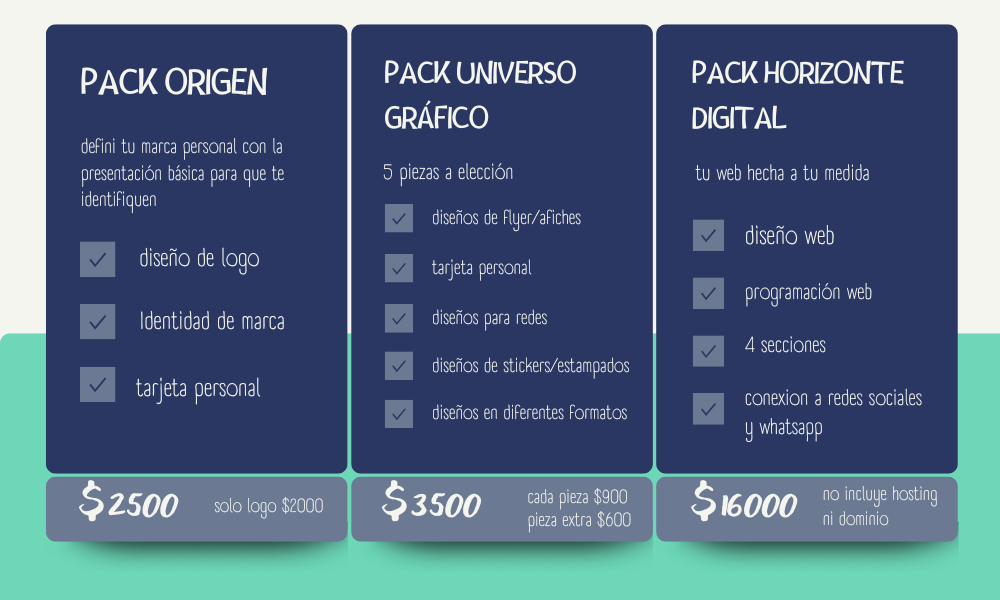
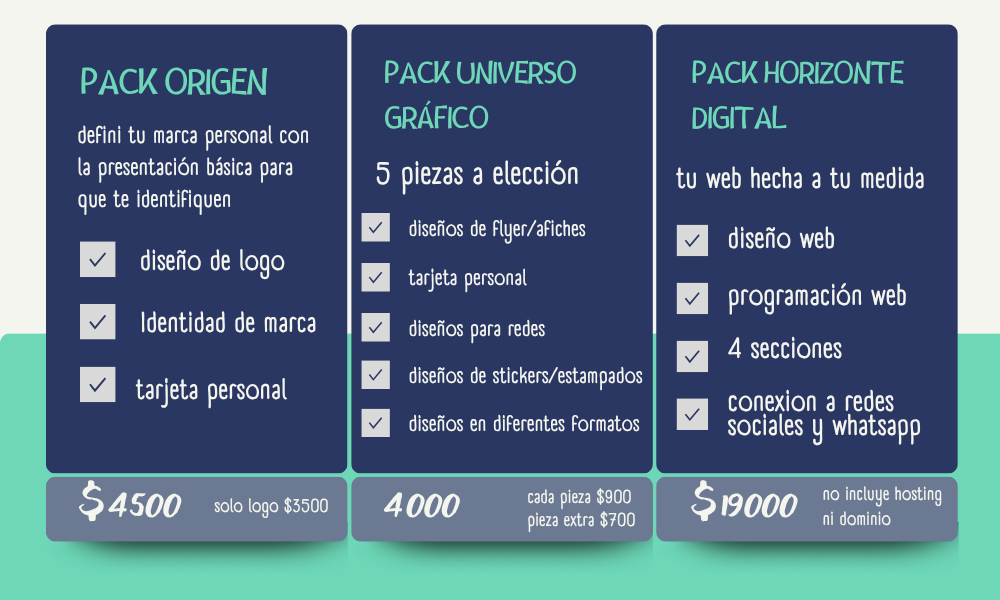
actualizacion pagina de servicios

diff --git a/servicios.html b/servicios.html
@@ -193,28 +193,28 @@
                                     <tr>
                                         <th scope="row">Reuniones on-line</th>
                                         <td> > 1hs</td>
-                                        <td>$5usd</td>
+                                        <td>$10usd</td>
                                     </tr>
                                     <tr>
                                         <th scope="row">Primer boceto y primera revisión</th>
                                         <td>2hs</td>
-                                        <td>$10usd</td>
+                                        <td>$20usd</td>
                                     </tr>
                                     <tr>
                                         <th scope="row">Segundo boceto y segunda revisión</th>
                                         <td>5hs</td>
-                                        <td>$25usd</td>
+                                        <td>$50usd</td>
 
                                     </tr>
                                     <tr>
                                         <th scope="row">Detalles finales y documentación</th>
                                         <td>2hs</td>
-                                        <td>$10usd</td>
+                                        <td>$20usd</td>
 
                                     </tr>
                                     <th scope="row"><strong>Total</strong></th>
                                     <td>10hs</td>
-                                    <td>$50usd</td>
+                                    <td>$100usd</td>
                                 </tbody>
                             </table>
 
@@ -252,28 +252,28 @@
                                     <tr>
                                         <th scope="row">Reuniones on-line</th>
                                         <td> > 2hs</td>
-                                        <td>$10usd</td>
+                                        <td>$20usd</td>
                                     </tr>
                                     <tr>
                                         <th scope="row">Investigaciónes y recopilación de material</th>
                                         <td>5hs</td>
-                                        <td>$25usd</td>
+                                        <td>$50usd</td>
                                     </tr>
                                     <tr>
                                         <th scope="row">Bosquejos</th>
                                         <td>3hs</td>
-                                        <td>$15usd</td>
+                                        <td>$30usd</td>
                                     </tr>
                                     <tr>
                                         <th scope="row">Prototipo de baja fidelidad</th>
                                         <td>4hs</td>
-                                        <td>$20usd</td>
+                                        <td>$40usd</td>
 
                                     </tr>
                                     <tr>
                                         <th scope="row">Maquetas</th>
                                         <td>5hs</td>
-                                        <td>$25usd</td>
+                                        <td>$50usd</td>
 
                                     </tr>
                                     <tr>
@@ -284,11 +284,11 @@
                                     <tr>
                                         <th scope="row">Revisiones y documentación</th>
                                         <td>5hs</td>
-                                        <td>$25usd</td>
+                                        <td>$50usd</td>
                                     </tr>
                                     <th scope="row"><strong>Total</strong></th>
                                     <td>44hs</td>
-                                    <td>$220usd</td>
+                                    <td>$440usd</td>
                                 </tbody>
                             </table>
 
@@ -323,28 +323,28 @@
                                     <tr>
                                         <th scope="row">Maquetación HTML</th>
                                         <td> 5hs</td>
-                                        <td>$50usd</td>
+                                        <td>$100usd</td>
                                     </tr>
                                     <tr>
                                         <th scope="row">Añadir Css y Bootstrap</th>
                                         <td>5hs</td>
-                                        <td>$50usd</td>
+                                        <td>$100usd</td>
                                     </tr>
                                     <tr>
                                         <th scope="row">JS</th>
                                         <td>5hs</td>
-                                        <td>$50usd</td>
+                                        <td>$100usd</td>
 
                                     </tr>
                                     <tr>
                                         <th scope="row">Detalles finales y documentación</th>
                                         <td>2hs</td>
-                                        <td>$20usd</td>
+                                        <td>$40usd</td>
 
                                     </tr>
                                     <th scope="row"><strong>Total</strong></th>
                                     <td>17hs</td>
-                                    <td>$170usd</td>
+                                    <td>$340usd</td>
                                 </tbody>
                             </table>
 
@@ -364,7 +364,7 @@
                         <img src="img/logo-desarrollo.ecommerce.png" class="" alt="Responsive" width="100%">
                         <div class="card-body"><br>
                             <h2 class="text-center">Ecommerce</h2><br>
-                            <p class="text-center">Básico 30 productos</p>
+                            <p class="text-center">Básico 20 productos</p>
                             <br>
 
                             <h5 class="text-center">INCLUYE:</h5>
@@ -437,7 +437,7 @@
                                     <tr>
                                         <th scope="row">Primera reunion</th>
                                         <td> 1hs</td>
-                                        <td>$5usd</td>
+                                        <td>$10usd</td>
                                     </tr>
                                     <tr>
                                         <th scope="row">Investigación</th>
@@ -453,12 +453,12 @@
                                     <tr>
                                         <th scope="row">Segunda reunion</th>
                                         <td>1hs</td>
-                                        <td>$5usd</td>
+                                        <td>$10usd</td>
 
                                     </tr>
                                     <th scope="row"><strong>Total</strong></th>
                                     <td>5hs</td>
-                                    <td>$25usd</td>
+                                    <td>$50usd</td>
                                 </tbody>
                             </table>
 
